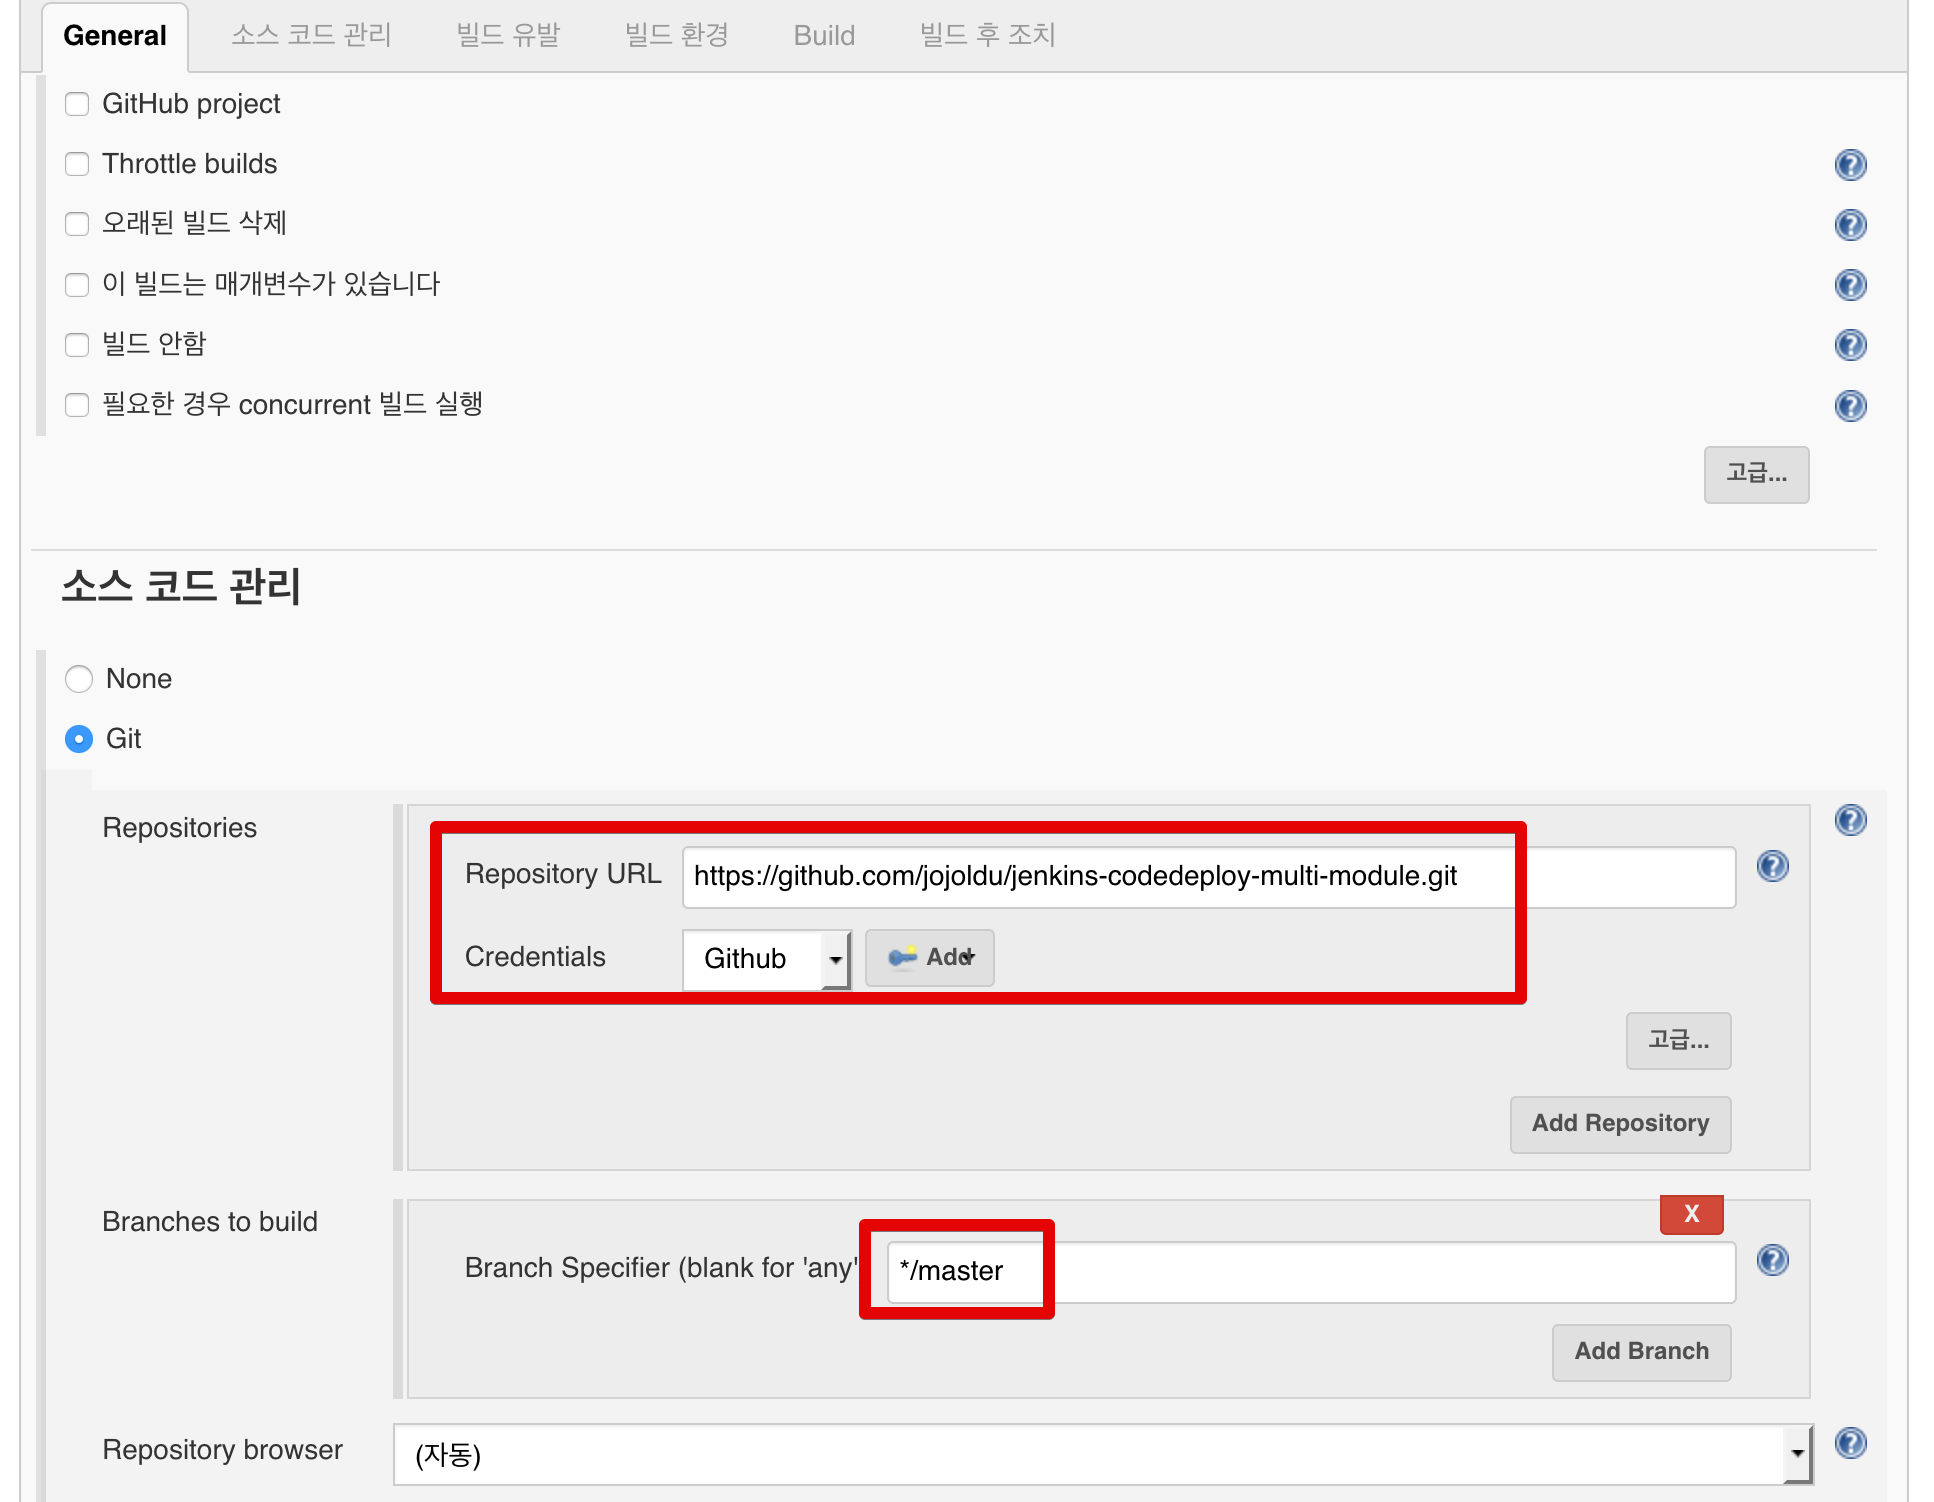
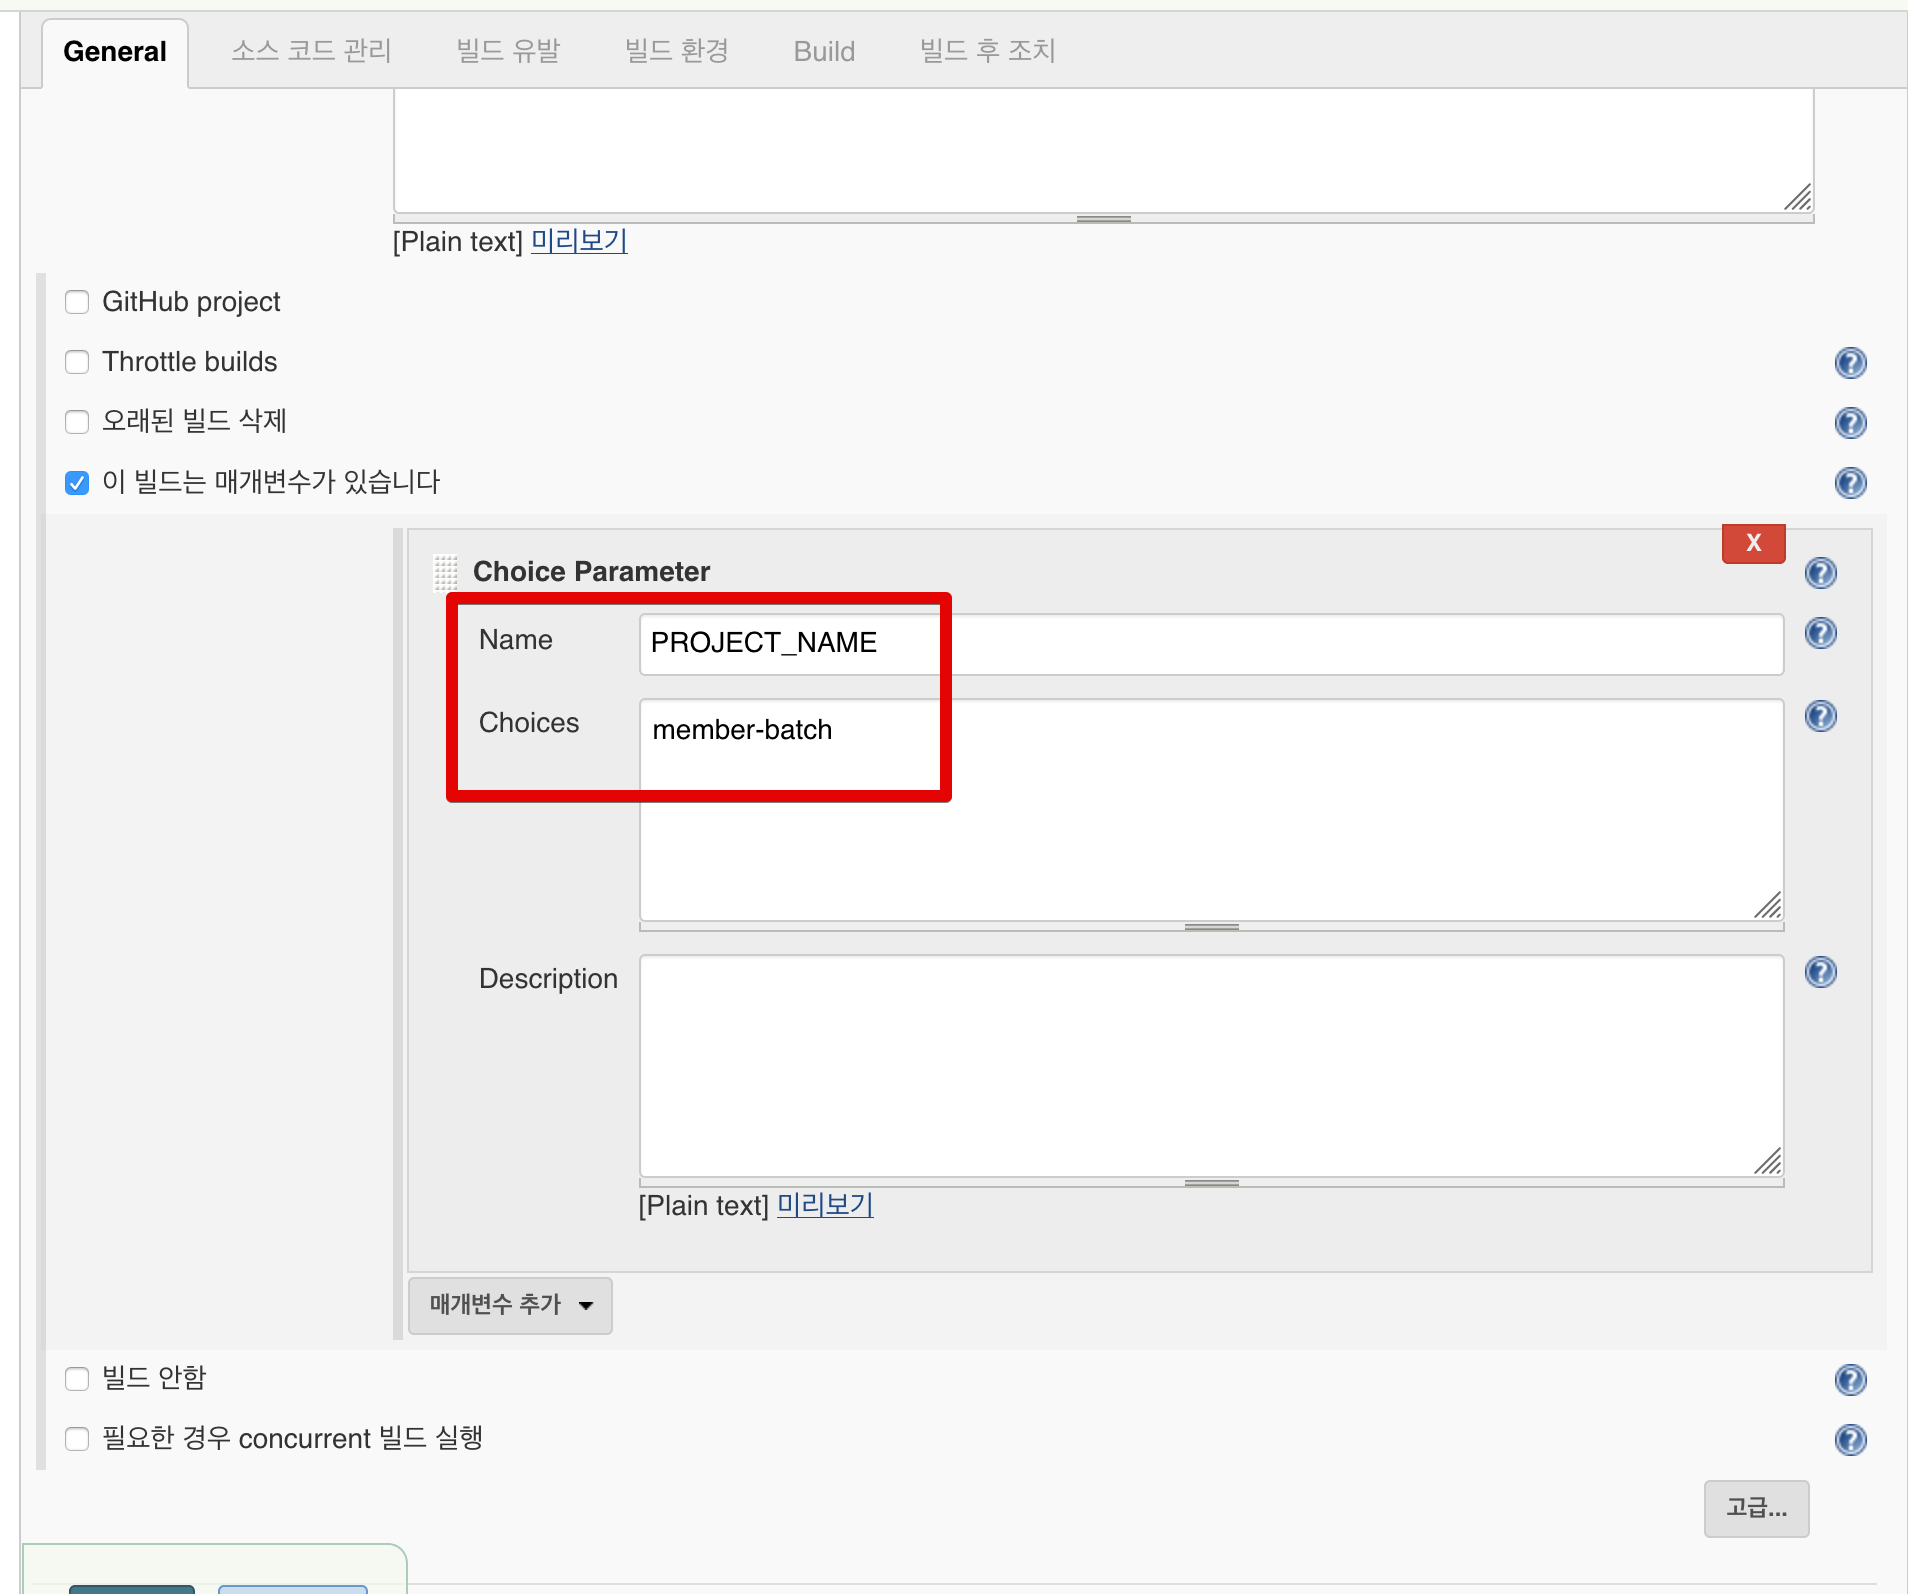
IAM Role, Code Deploy 설정 완료

diff --git a/README.md b/README.md
@@ -6,6 +6,22 @@
 
 ## 0. 들어가며
 
+> 여기서는 [Gradle Multi Module](http://jojoldu.tistory.com/123)로 구성된 프로젝트를 기준으로 합니다.  
+
+Spring Batch의 Trigger를 관리하는 방법은 크게 3가지가 있습니다.
+
+* Linux의 crontab
+* Spring Quartz
+* Jenkins
+
+보통 Linux의 crontab과 Spring Quartz를 많이들 사용하시는데요.  
+Jenkins가 생각보다 Spring Batch 관리용으로 유용하고 효율적입니다.  
+
+> 현재 제가 속해있는 팀에서도 적극적으로 Jenkins를 Batch 관리로 사용중인데요.  
+기회가 되면 이 부분도 한번 정리하겠습니다 :)
+
+Jenkins로 Spring Batch를 관리하기 위해서 지켜주셔야할 것은 **배포용 Jenkins와 Batch용 Jenkins를 분리하는 것**입니다.  
+여기선 이 2개가 분리되어있다는 가정하에 시작합니다.  
 
 ## 1. AWS 환경 설정
 
@@ -27,6 +43,15 @@
 
 ![iam5](./images/iam5.png)
 
+추가로 **Code Deploy용 IAM Role**도 생성합니다.
+
+![iam6](./images/iam6.png)
+
+![iam7](./images/iam7.png)
+
+![iam8](./images/iam8.png)
+
+
 ### S3 Bucket 생성
 
 배포할 zip 파일을 관리할 S3 Bucket도 생성합니다.
@@ -43,12 +68,15 @@
 
 ![s4](./images/s4.png)
 
+
+### Code Deploy 생성
+
 ## 2. 배포 Jenkins 환경 설정
 
-배포 Jenkins는 Github과 연동이 필요합니다.  
-
+배포 Jenkins에서 Github에 올라간 코드를 가져올 수 있도록 Github과 연동이 필요합니다.  
 > Jenkins와 Github 연동은 [이전에 작성된 포스팅](http://jojoldu.tistory.com/291)를 참고해서 진행하시는것을 추천드립니다.
 
+**연동이 되셨으면** 배포 Job을 생성하겠습니다.
 
 ![deploy1](./images/deploy1.png)
 
@@ -56,7 +84,13 @@
 
 ![deploy3](./images/deploy3.png)
 
-![deploy4](./images/deploy4.png)
+소스코드 관리에서는 배포할 프로젝트의 Github 주소를 등록합니다.
+
+![deploy3](./images/deploy4.png)
+
+배포 스크립트 내용은 좀 길어서 아래 코드를 그대로 복사해주세요.
+
+![deploy4](./images/deploy5.png)
 
 ```bash
 DEPLOY_DIR_NAME=code-deploy-${PROJECT_NAME}
@@ -89,6 +123,17 @@ echo "	> 생성된 디렉토리 삭제"
 cd ..
 rm -rf ${DEPLOY_DIR_NAME}
 ```
+
+* ```./gradlew :${PROJECT_NAME}:clean :${PROJECT_NAME}:build```
+    * 멀티 모듈 프로젝트이기 때문에 지정한 프로젝트를 Build 하도록 합니다.
+* 배포.zip 생성
+    * 하위 프로젝트의 ```code-deploy``` 디렉토리 안에 있는 yml, sh파일과 build된 jar파일을 하나의 zip으로 묶습니다.
+* AWS S3 업로드
+    * S3에 배포.zip 파일을 올립니다.
+* AWS CodeDeploy 배포
+    * 업로드한 S3 파일로 Code Deploy 배포를 진행합니다.
+
+자 이렇게 하면 배포 Jenkins의 설정은 끝이 납니다.
 
 ## 3. 프로젝트 설정
 
